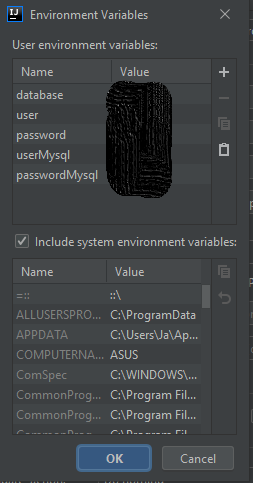
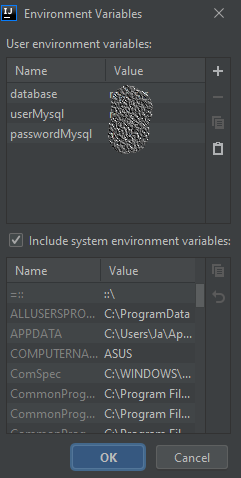
SDA-15 Changed README file

diff --git a/README.md b/README.md
@@ -2,7 +2,7 @@
 ###Project description
 ###Configuration
 
-In order to connect to your database you have to execute the following steps:
+In order to connect to your database (on production profile) you have to execute the following steps:
 1. In IntelliJ go to Run->Edit Configurations...
 
 ![](src/main/resources/imagesREADME/1.png)
@@ -13,7 +13,6 @@ Then click where the red arrow is.
 
 In the 'Name' column write the same words:
 - 'database' is a name of your database schema
-- 'user' and 'password' are properties of your h2 database user
 - 'userMysql' and 'passwordMysql' are properties of your MySQL database user
 
 In the 'Value' column write specific data according to your database. 
